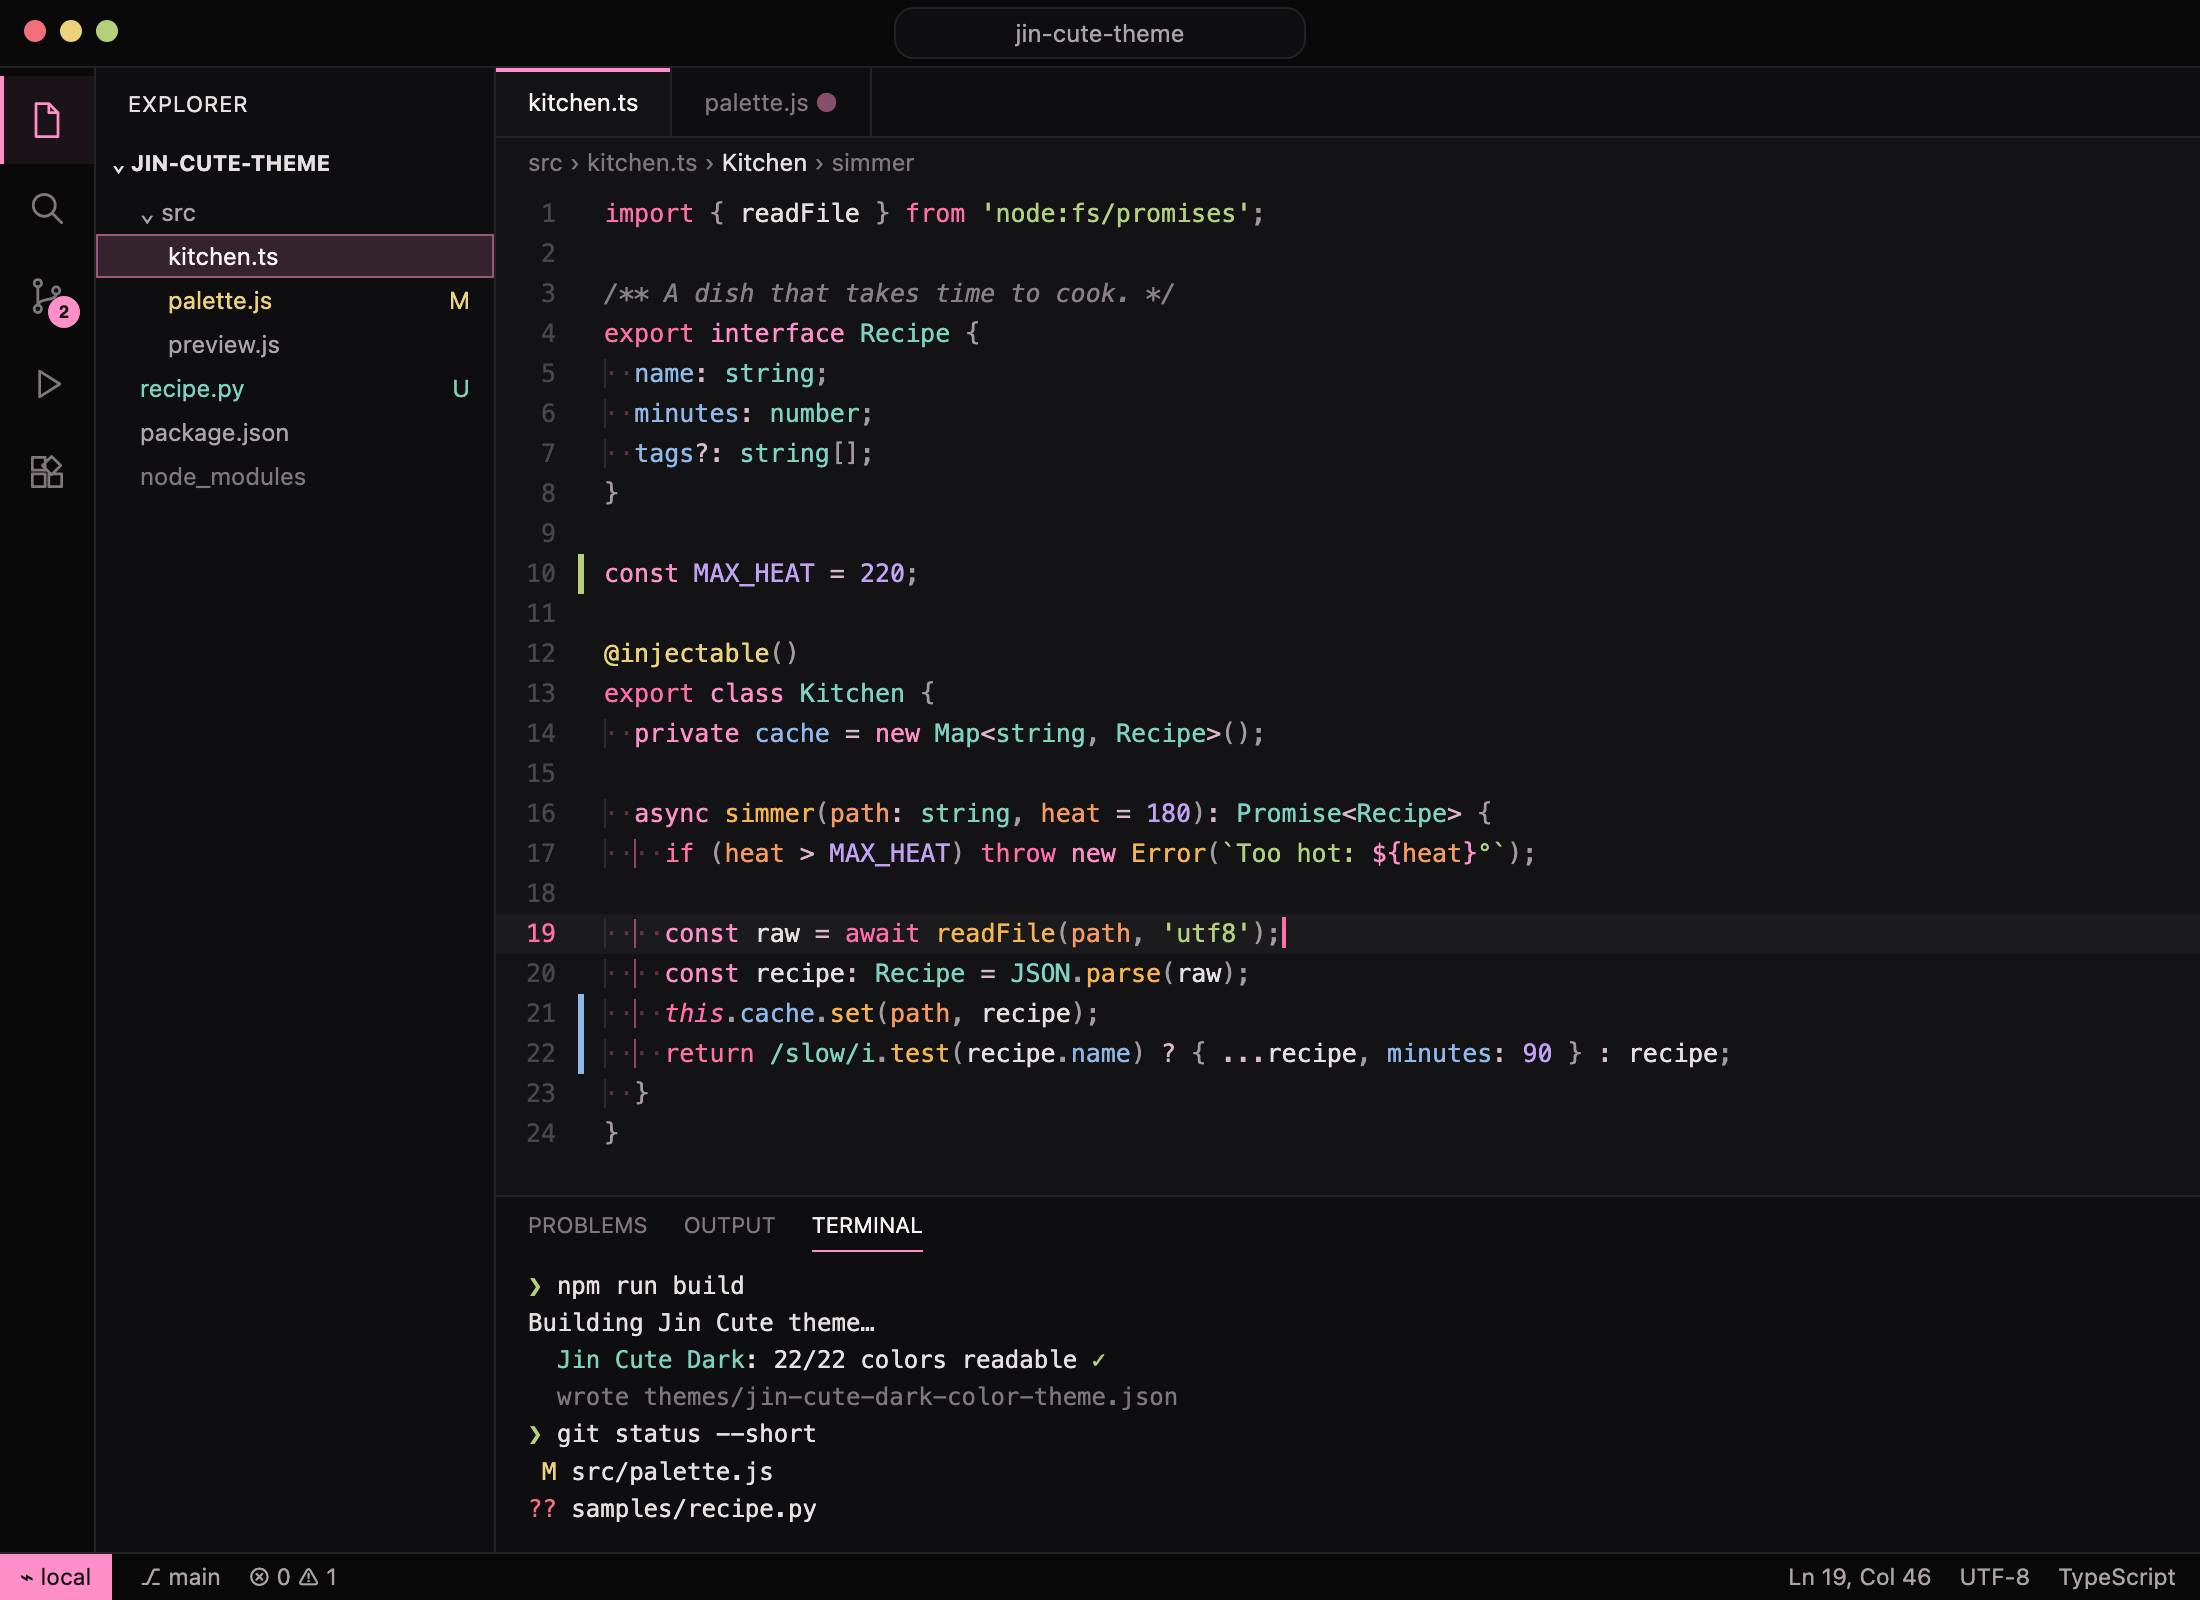
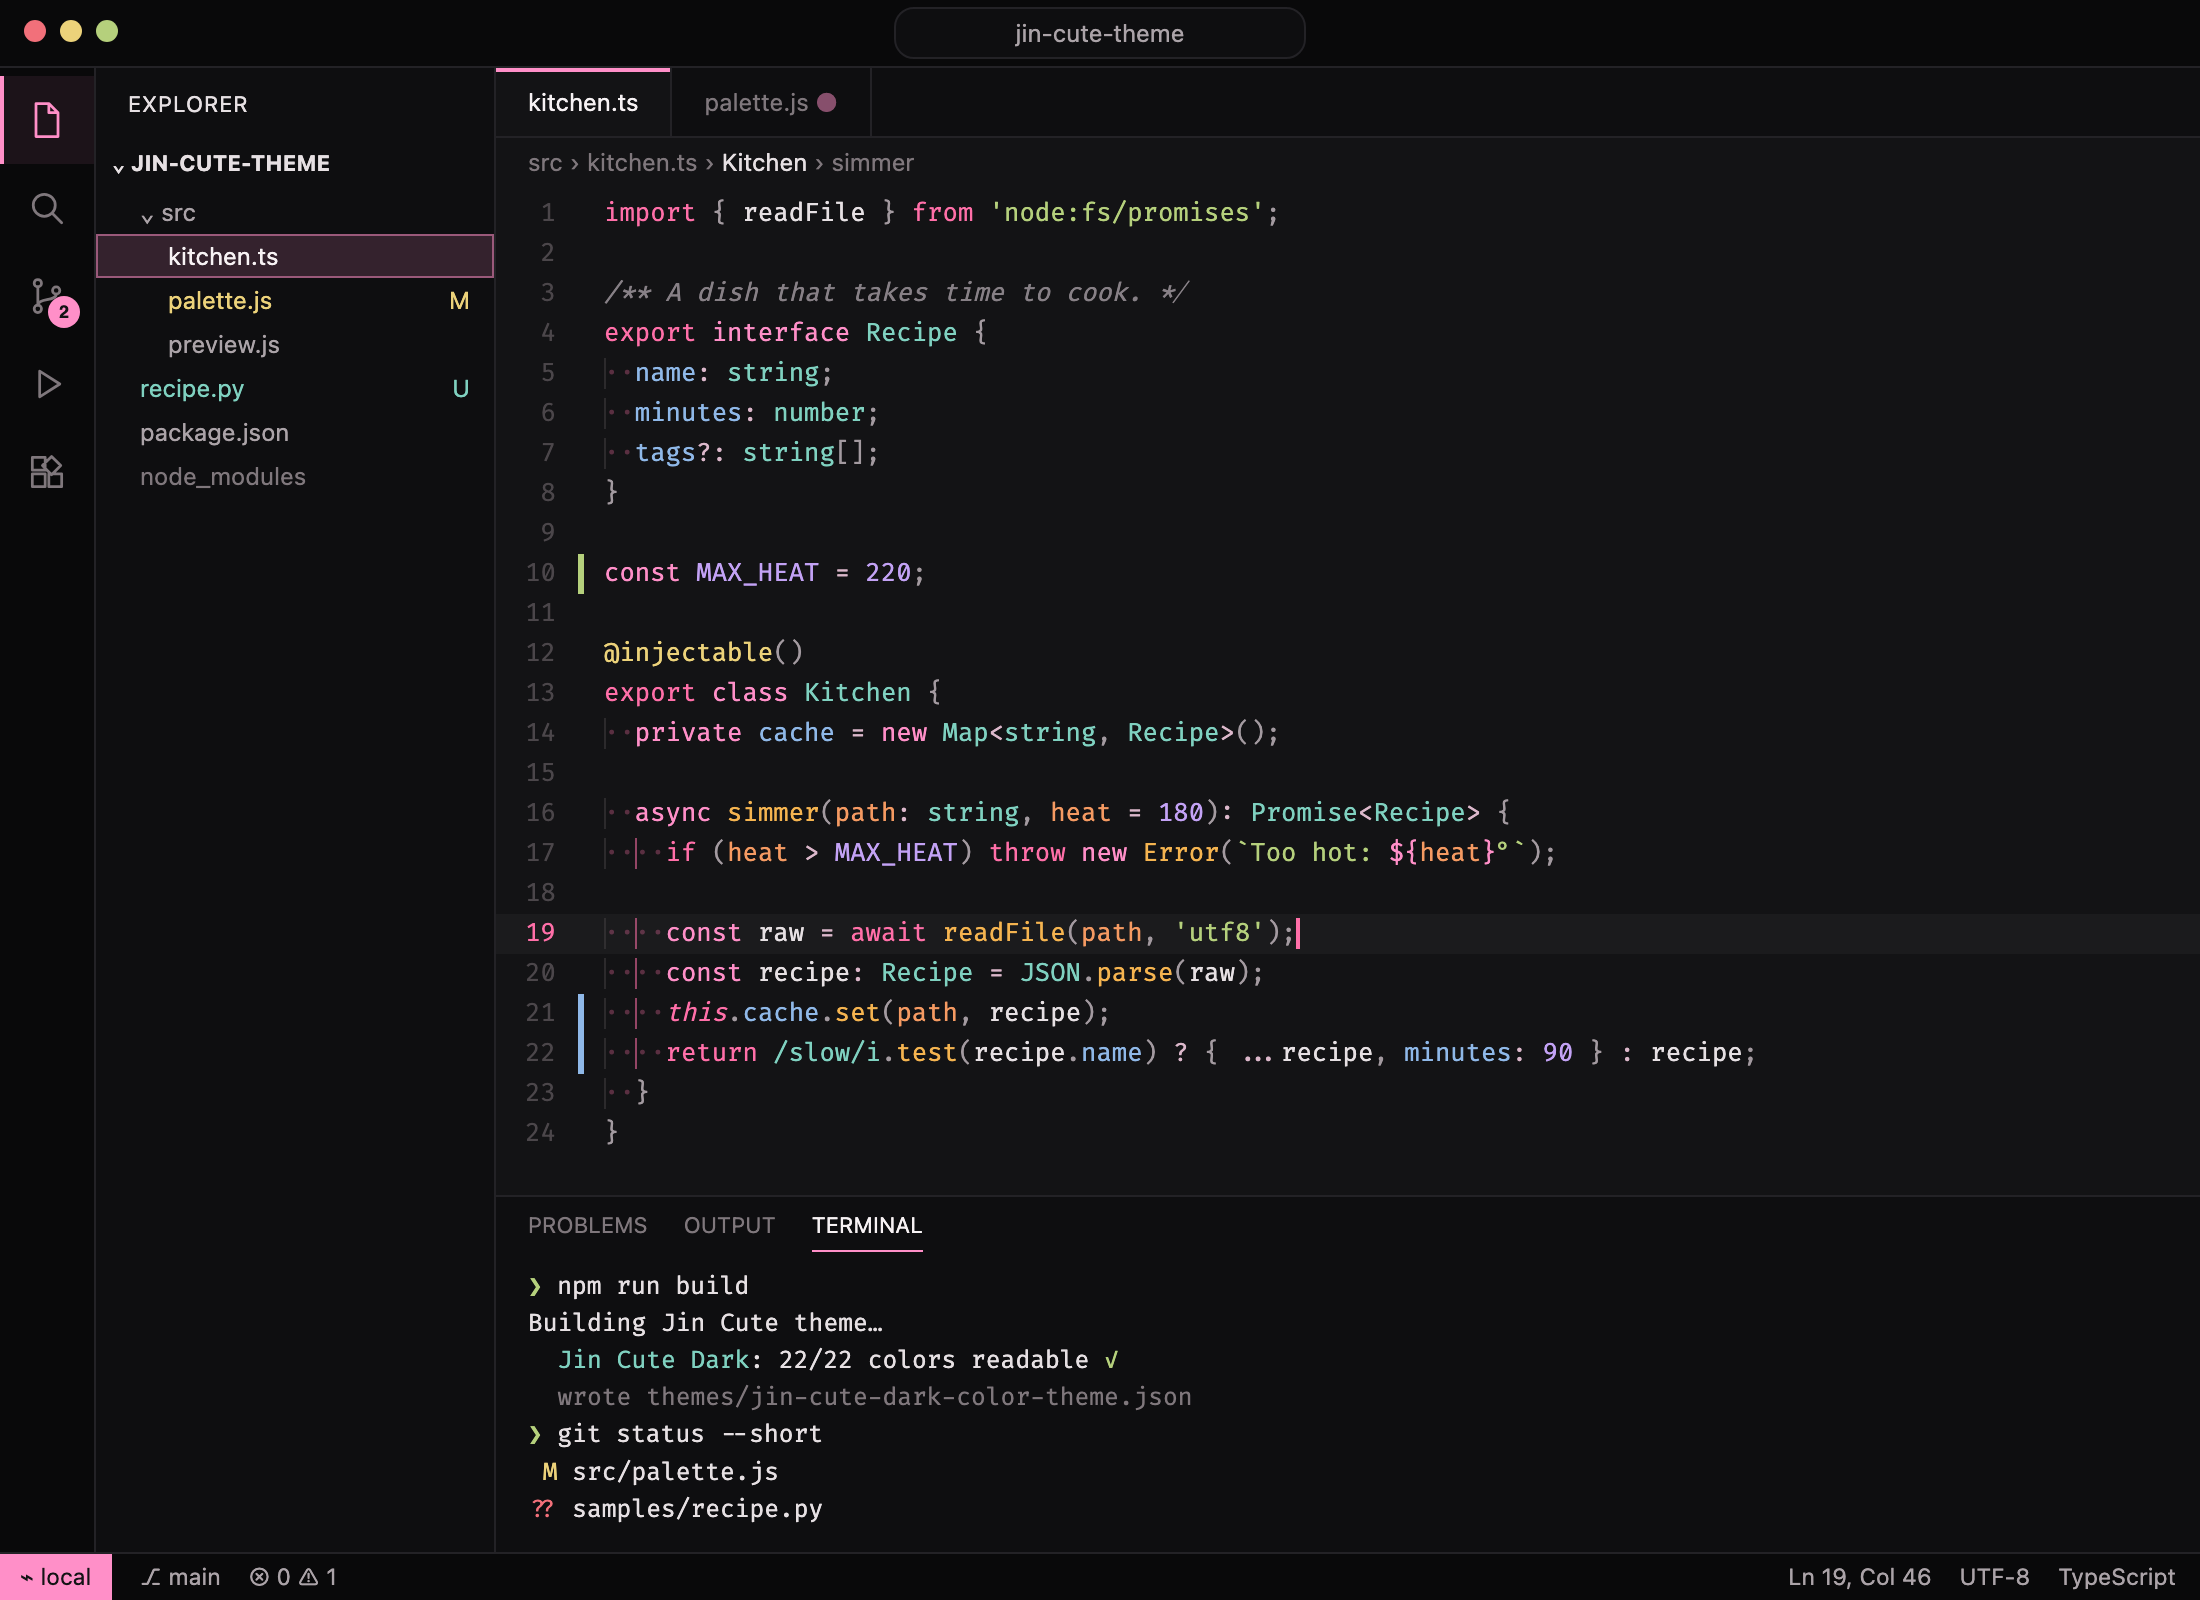
Add Sublime shortcuts, smarter Cmd+I and Fira Code to Jin Cute Tools
Cmd+I now runs jinCute.goToImplementation in any editor: it goes to the
implementation when the language provides one and falls back to the
definition otherwise. The old binding required an implementation
provider, so in languages without one (e.g. Python with Pylance) the key
fell through to Continue's Cmd+I.

Add 21 more Sublime Text style keybindings (project symbols, duplicate,
delete and move lines, multi-cursor, expand selection, join lines, case
changes, layouts, switch project) and default the editor and terminal to
Fira Code with ligatures. Bump the tools extension to 0.2.0.

Use Fira Code in the preview and README screenshots, and add it to the
README's recommended settings.

diff --git a/preview.html b/preview.html
@@ -47,7 +47,7 @@ main { display: flex; flex-direction: column; min-width: 0; }
 .crumbs { padding: 3px 16px; color: var(--breadcrumb-foreground); background: var(--breadcrumb-background); }
 .crumbs span { color: var(--breadcrumb-focusForeground); }
 .editor { padding: 4px 0 10px; overflow-x: auto; background: var(--editor-background);
-  font: 12.5px/1.6 ui-monospace, "SF Mono", Menlo, Consolas, monospace; color: var(--editor-foreground); }
+  font: 12.5px/1.6 "Fira Code", ui-monospace, "SF Mono", Menlo, Consolas, monospace; color: var(--editor-foreground); }
 .ln { display: flex; white-space: pre; min-width: max-content; }
 .ln .num { width: 44px; flex: none; padding-right: 14px; text-align: right; color: var(--editorLineNumber-foreground); box-shadow: inset 3px 0 0 transparent; }
 .ln.g-added .num { box-shadow: inset -3px 0 0 var(--editorGutter-addedBackground); }
@@ -84,7 +84,7 @@ main { display: flex; flex-direction: column; min-width: 0; }
 .ptabs span { padding-bottom: 5px; }
 .ptabs .active { color: var(--panelTitle-activeForeground); box-shadow: inset 0 -1px 0 var(--panelTitle-activeBorder); }
 .term { margin: 0; padding: 8px 16px 12px; background: var(--terminal-background); color: var(--terminal-foreground); overflow-x: auto;
-  font: 12px/1.55 ui-monospace, "SF Mono", Menlo, Consolas, monospace; }
+  font: 12px/1.55 "Fira Code", ui-monospace, "SF Mono", Menlo, Consolas, monospace; }
 .a-green { color: var(--terminal-ansiGreen); } .a-red { color: var(--terminal-ansiRed); } .a-yellow { color: var(--terminal-ansiYellow); }
 .a-cyan { color: var(--terminal-ansiCyan); } .a-bblack { color: var(--terminal-ansiBrightBlack); }
 .status { display: flex; gap: 14px; align-items: center; height: 24px; padding-right: 12px; white-space: nowrap; overflow: hidden;

diff --git a/src/preview.js b/src/preview.js
@@ -232,7 +232,7 @@ main { display: flex; flex-direction: column; min-width: 0; }
 .crumbs { padding: 3px 16px; color: var(--breadcrumb-foreground); background: var(--breadcrumb-background); }
 .crumbs span { color: var(--breadcrumb-focusForeground); }
 .editor { padding: 4px 0 10px; overflow-x: auto; background: var(--editor-background);
-  font: 12.5px/1.6 ui-monospace, "SF Mono", Menlo, Consolas, monospace; color: var(--editor-foreground); }
+  font: 12.5px/1.6 "Fira Code", ui-monospace, "SF Mono", Menlo, Consolas, monospace; color: var(--editor-foreground); }
 .ln { display: flex; white-space: pre; min-width: max-content; }
 .ln .num { width: 44px; flex: none; padding-right: 14px; text-align: right; color: var(--editorLineNumber-foreground); box-shadow: inset 3px 0 0 transparent; }
 .ln.g-added .num { box-shadow: inset -3px 0 0 var(--editorGutter-addedBackground); }
@@ -254,7 +254,7 @@ ${roleCss}
 .ptabs span { padding-bottom: 5px; }
 .ptabs .active { color: var(--panelTitle-activeForeground); box-shadow: inset 0 -1px 0 var(--panelTitle-activeBorder); }
 .term { margin: 0; padding: 8px 16px 12px; background: var(--terminal-background); color: var(--terminal-foreground); overflow-x: auto;
-  font: 12px/1.55 ui-monospace, "SF Mono", Menlo, Consolas, monospace; }
+  font: 12px/1.55 "Fira Code", ui-monospace, "SF Mono", Menlo, Consolas, monospace; }
 .a-green { color: var(--terminal-ansiGreen); } .a-red { color: var(--terminal-ansiRed); } .a-yellow { color: var(--terminal-ansiYellow); }
 .a-cyan { color: var(--terminal-ansiCyan); } .a-bblack { color: var(--terminal-ansiBrightBlack); }
 .status { display: flex; gap: 14px; align-items: center; height: 24px; padding-right: 12px; white-space: nowrap; overflow: hidden;

diff --git a/extras/jin-cute-tools/extension.js b/extras/jin-cute-tools/extension.js
@@ -1,4 +1,5 @@
-// Jin Cute's one command: a Sublime Text style "Goto Symbol" (Cmd+R) that lists only functions and methods.
+// Jin Cute Tools commands.
+// Cmd+R: a Sublime Text style "Goto Symbol" that lists only functions and methods.
 // Typing filters the list, moving through it previews each function in the editor,
 // Enter jumps there, and Escape returns to where you were.
 const vscode = require('vscode');
@@ -85,8 +86,24 @@ async function goToFunction() {
   picker.show();
 }
 
+// Cmd+I: jump to the implementation when the language can find one, otherwise to the definition.
+// Many languages (Python with Pylance, plain JSON, CSS, ...) have no implementation provider at all.
+async function goToImplementation() {
+  const editor = vscode.window.activeTextEditor;
+  if (!editor) return;
+  const implementations = await vscode.commands
+    .executeCommand('vscode.executeImplementationProvider', editor.document.uri, editor.selection.active)
+    .then((result) => result || [], () => []);
+  await vscode.commands.executeCommand(
+    implementations.length > 0 ? 'editor.action.goToImplementation' : 'editor.action.revealDefinition'
+  );
+}
+
 function activate(context) {
-  context.subscriptions.push(vscode.commands.registerCommand('jinCute.goToFunction', goToFunction));
+  context.subscriptions.push(
+    vscode.commands.registerCommand('jinCute.goToFunction', goToFunction),
+    vscode.commands.registerCommand('jinCute.goToImplementation', goToImplementation)
+  );
 }
 
 module.exports = { activate, deactivate() {}, collectFunctions };

diff --git a/extras/jin-cute-tools/README.md b/extras/jin-cute-tools/README.md
@@ -2,9 +2,38 @@
 
 A personal companion to Jin Cute Theme. It isn't published. Install it from the repository root with `npm run install-tools`.
 
+## Sublime Text style shortcuts
+
 | Mac | Windows/Linux | What it does |
 | --- | --- | --- |
-| Cmd+R | Ctrl+R | **Go to Function**: lists only the functions, methods and constructors in the current file. Type to filter, use ↑/↓ to preview, Enter to jump, Esc to go back. |
-| Cmd+I | Ctrl+I | **Go to Implementation** for the symbol under the cursor. |
+| Cmd+R | Ctrl+R | **Go to Function**: lists only the functions, methods and constructors in the current file. Type to filter, ↑/↓ to preview, Enter to jump, Esc to go back. |
+| Cmd+Shift+R | Ctrl+Shift+R | Go to symbol in the whole project |
+| Cmd+I | Ctrl+I | **Go to Implementation**, or to the definition when the language can't find implementations |
+| Cmd+Alt+↓ | F12 | Go to definition |
+| Cmd+Ctrl+G | Alt+F3 | Select all occurrences of the current word |
+| Cmd+Shift+L | Ctrl+Shift+L | Split a selection into one cursor per line |
+| Ctrl+Shift+↑ / ↓ | Ctrl+Alt+↑ / ↓ | Add a cursor on the line above / below |
+| Cmd+Shift+Space | Ctrl+Shift+Space | Expand the selection to the enclosing scope |
+| Cmd+Shift+D | Ctrl+Shift+D | Duplicate line |
+| Ctrl+Shift+K | Ctrl+Shift+K | Delete line |
+| Cmd+Ctrl+↑ / ↓ | Ctrl+Shift+↑ / ↓ | Move line up / down |
+| Cmd+J | Ctrl+J | Join lines |
+| Cmd+K Cmd+U / Cmd+K Cmd+L | Ctrl+K Ctrl+U / Ctrl+K Ctrl+L | Upper case / lower case |
+| Cmd+K Cmd+K / Cmd+K Cmd+⌫ | Ctrl+K Ctrl+K / Ctrl+K Ctrl+⌫ | Delete to end / start of line |
+| Cmd+K Cmd+B | Ctrl+K Ctrl+B | Toggle the side bar |
+| Cmd+Ctrl+P | Ctrl+Alt+P | Switch project (open recent) |
+| Cmd+Alt+1 / 2 / 3 | Alt+Shift+1 / 2 / 3 | One, two or three editor columns |
 
-It also sets these editor defaults: a thin line cursor that glides and pulses, smooth scrolling, indentation shown as faint dots (`renderWhitespace: "boundary"`), and bracket pair guide lines.
+Shortcuts VS Code already shares with Sublime (Cmd+P, Cmd+Shift+P, Cmd+D, Cmd+L, Ctrl+G, Cmd+/, Cmd+Enter, Cmd+Shift+Enter, Ctrl+-) are left as they are.
+
+These replace VS Code's own meaning of a few keys while you're typing in an editor: Cmd+J (toggle panel), Cmd+Shift+D (Run and Debug), Cmd+Shift+L (select all occurrences, now Cmd+Ctrl+G), and Cmd+K Cmd+U / Cmd+K Cmd+L (uncomment, fold). Change any of them in **Preferences: Open Keyboard Shortcuts**.
+
+## Editor defaults
+
+- Fira Code with ligatures in the editor and terminal
+- A thin line cursor that glides and pulses
+- Smooth scrolling
+- Indentation shown as faint dots (`renderWhitespace: "boundary"`)
+- Bracket pair guide lines
+
+Your own settings always win over these.

diff --git a/DEVELOPMENT.md b/DEVELOPMENT.md
@@ -55,14 +55,7 @@ The personal shortcuts and cursor settings are a separate extension:
 npm run install-tools
 ```
 
-It adds:
-
-| Mac | Windows/Linux | What it does |
-| --- | --- | --- |
-| Cmd+R | Ctrl+R | **Go to Function**: lists only the functions, methods and constructors in the current file. Type to filter, ↑/↓ to preview, Enter to jump, Esc to go back. |
-| Cmd+I | Ctrl+I | **Go to Implementation** for the symbol under the cursor. |
-
-It also sets these defaults: a thin line cursor that glides (`cursorSmoothCaretAnimation`) and pulses (`cursorBlinking: "expand"`), smooth scrolling, indentation as faint dots (`renderWhitespace: "boundary"`) and bracket pair guide lines. In TypeScript and JavaScript, an arrow function stored in a `const` counts as a variable, so Go to Function doesn't list it.
+It adds Sublime Text style shortcuts (Cmd+R function list, Cmd+I implementation or definition, duplicate/delete/move lines, multi-cursor keys and more) and editor defaults (Fira Code with ligatures, a gliding and pulsing line cursor, dotted indentation, bracket guide lines). The full list is in `extras/jin-cute-tools/README.md`.
 
 If `npm` fails with `EACCES` inside `~/.npm`, some cache files belong to root (usually from an old `sudo npm`). Fix it once with:
 

diff --git a/README.md b/README.md
@@ -30,10 +30,12 @@ code --install-extension siveing.jin-cute-theme
 
 ## Recommended settings (optional)
 
-The theme is designed for a thin pink line cursor that glides and pulses, faint dots in the indentation, and a pink line joining the brackets around the cursor. To get that look, add these to your `settings.json`:
+The screenshots use [Fira Code](https://github.com/tonsky/FiraCode) with ligatures. The theme is designed for a thin pink line cursor that glides and pulses, faint dots in the indentation, and a pink line joining the brackets around the cursor. To get that look, add these to your `settings.json`:
 
 ```json
 {
+  "editor.fontFamily": "'Fira Code', Menlo, monospace",
+  "editor.fontLigatures": true,
   "editor.cursorStyle": "line",
   "editor.cursorWidth": 2,
   "editor.cursorBlinking": "expand",
